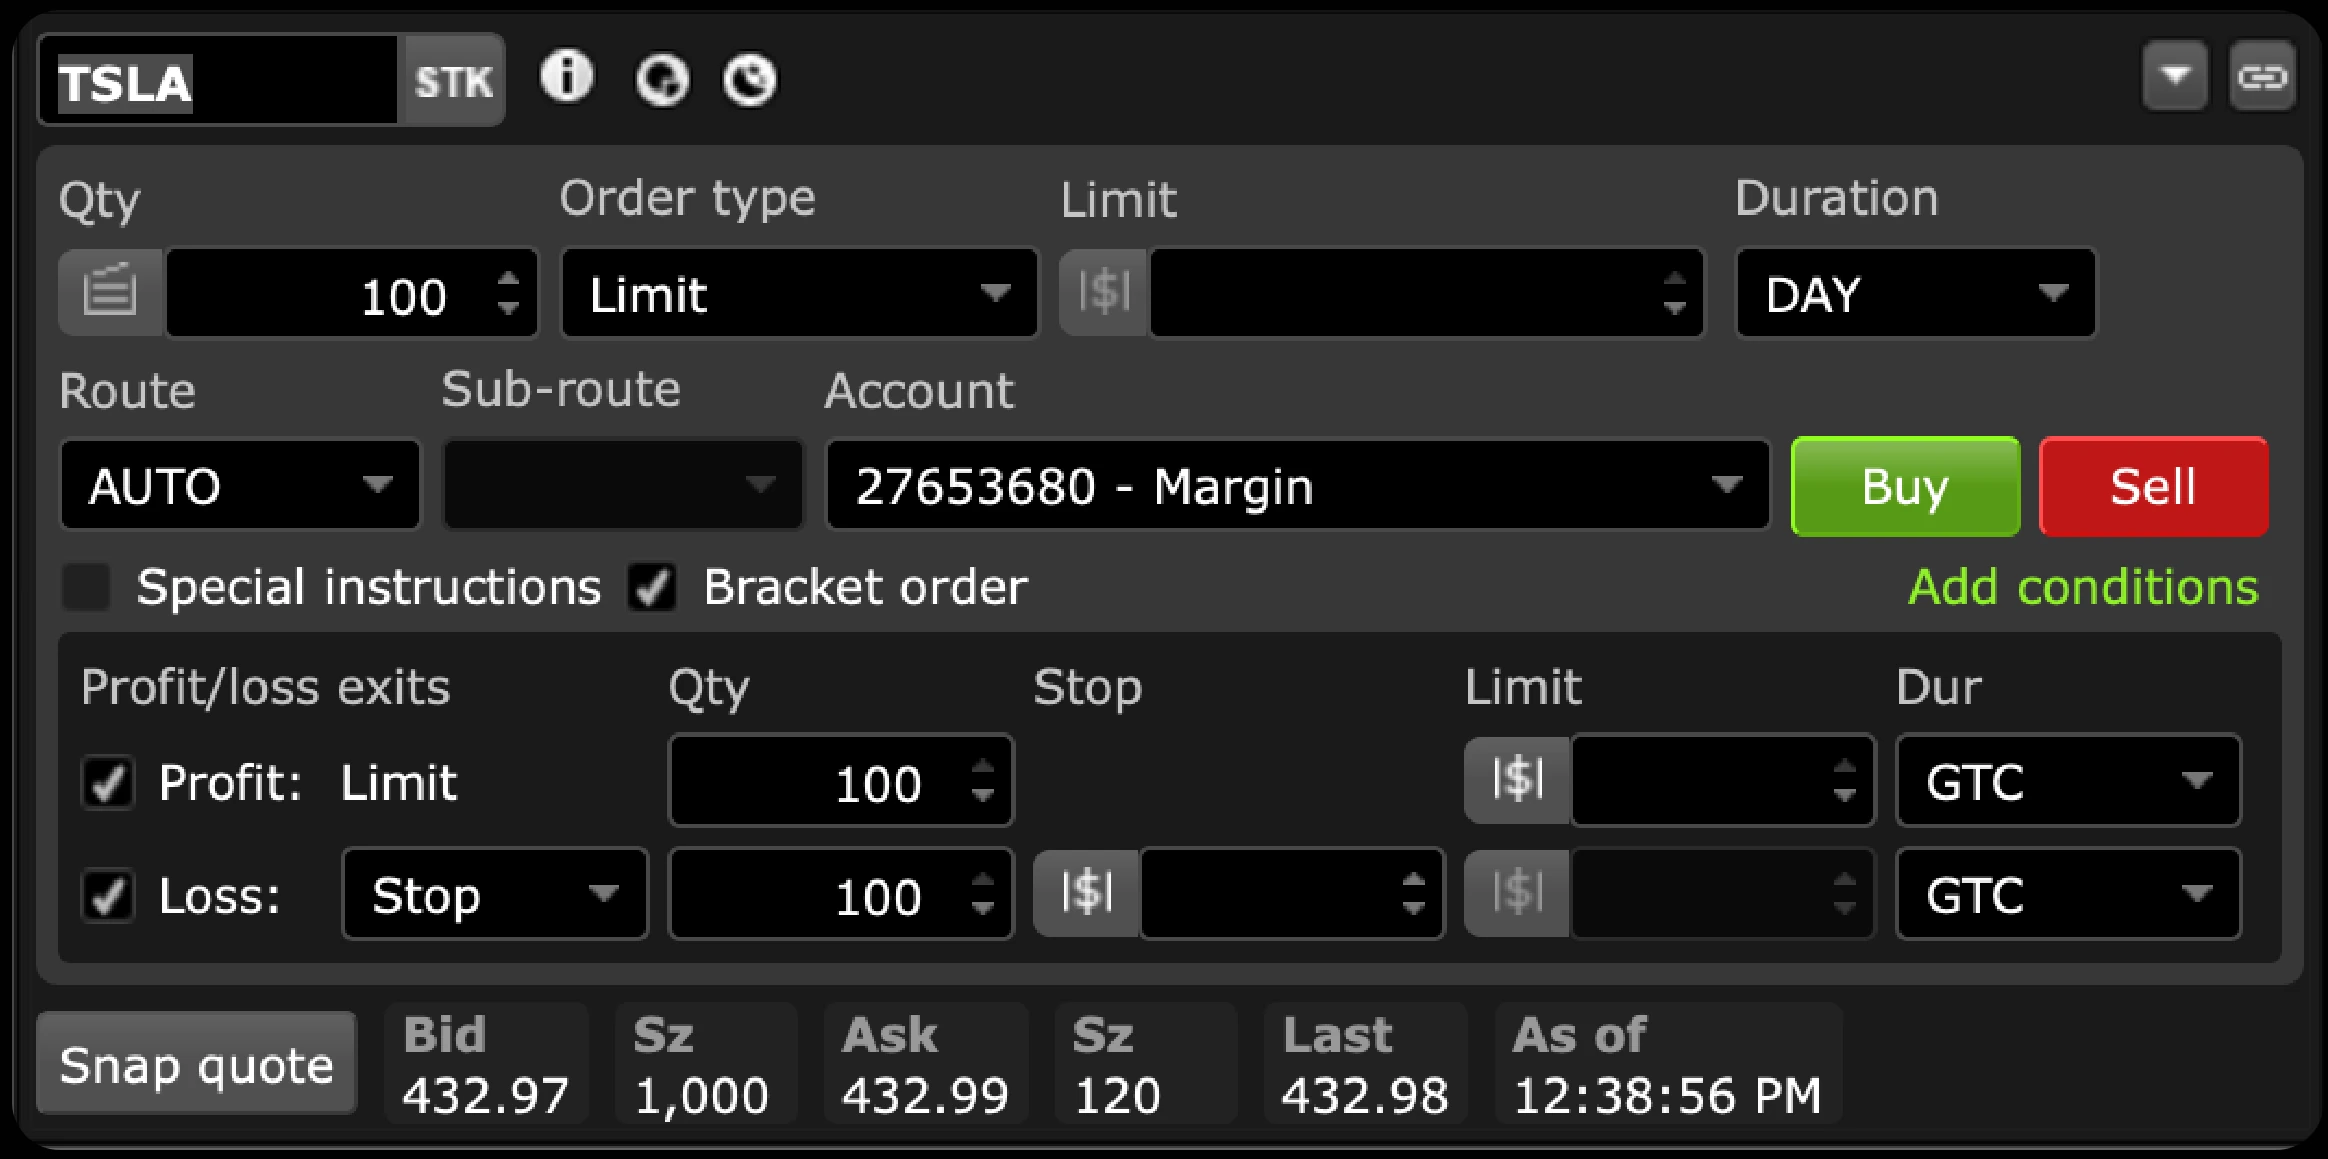
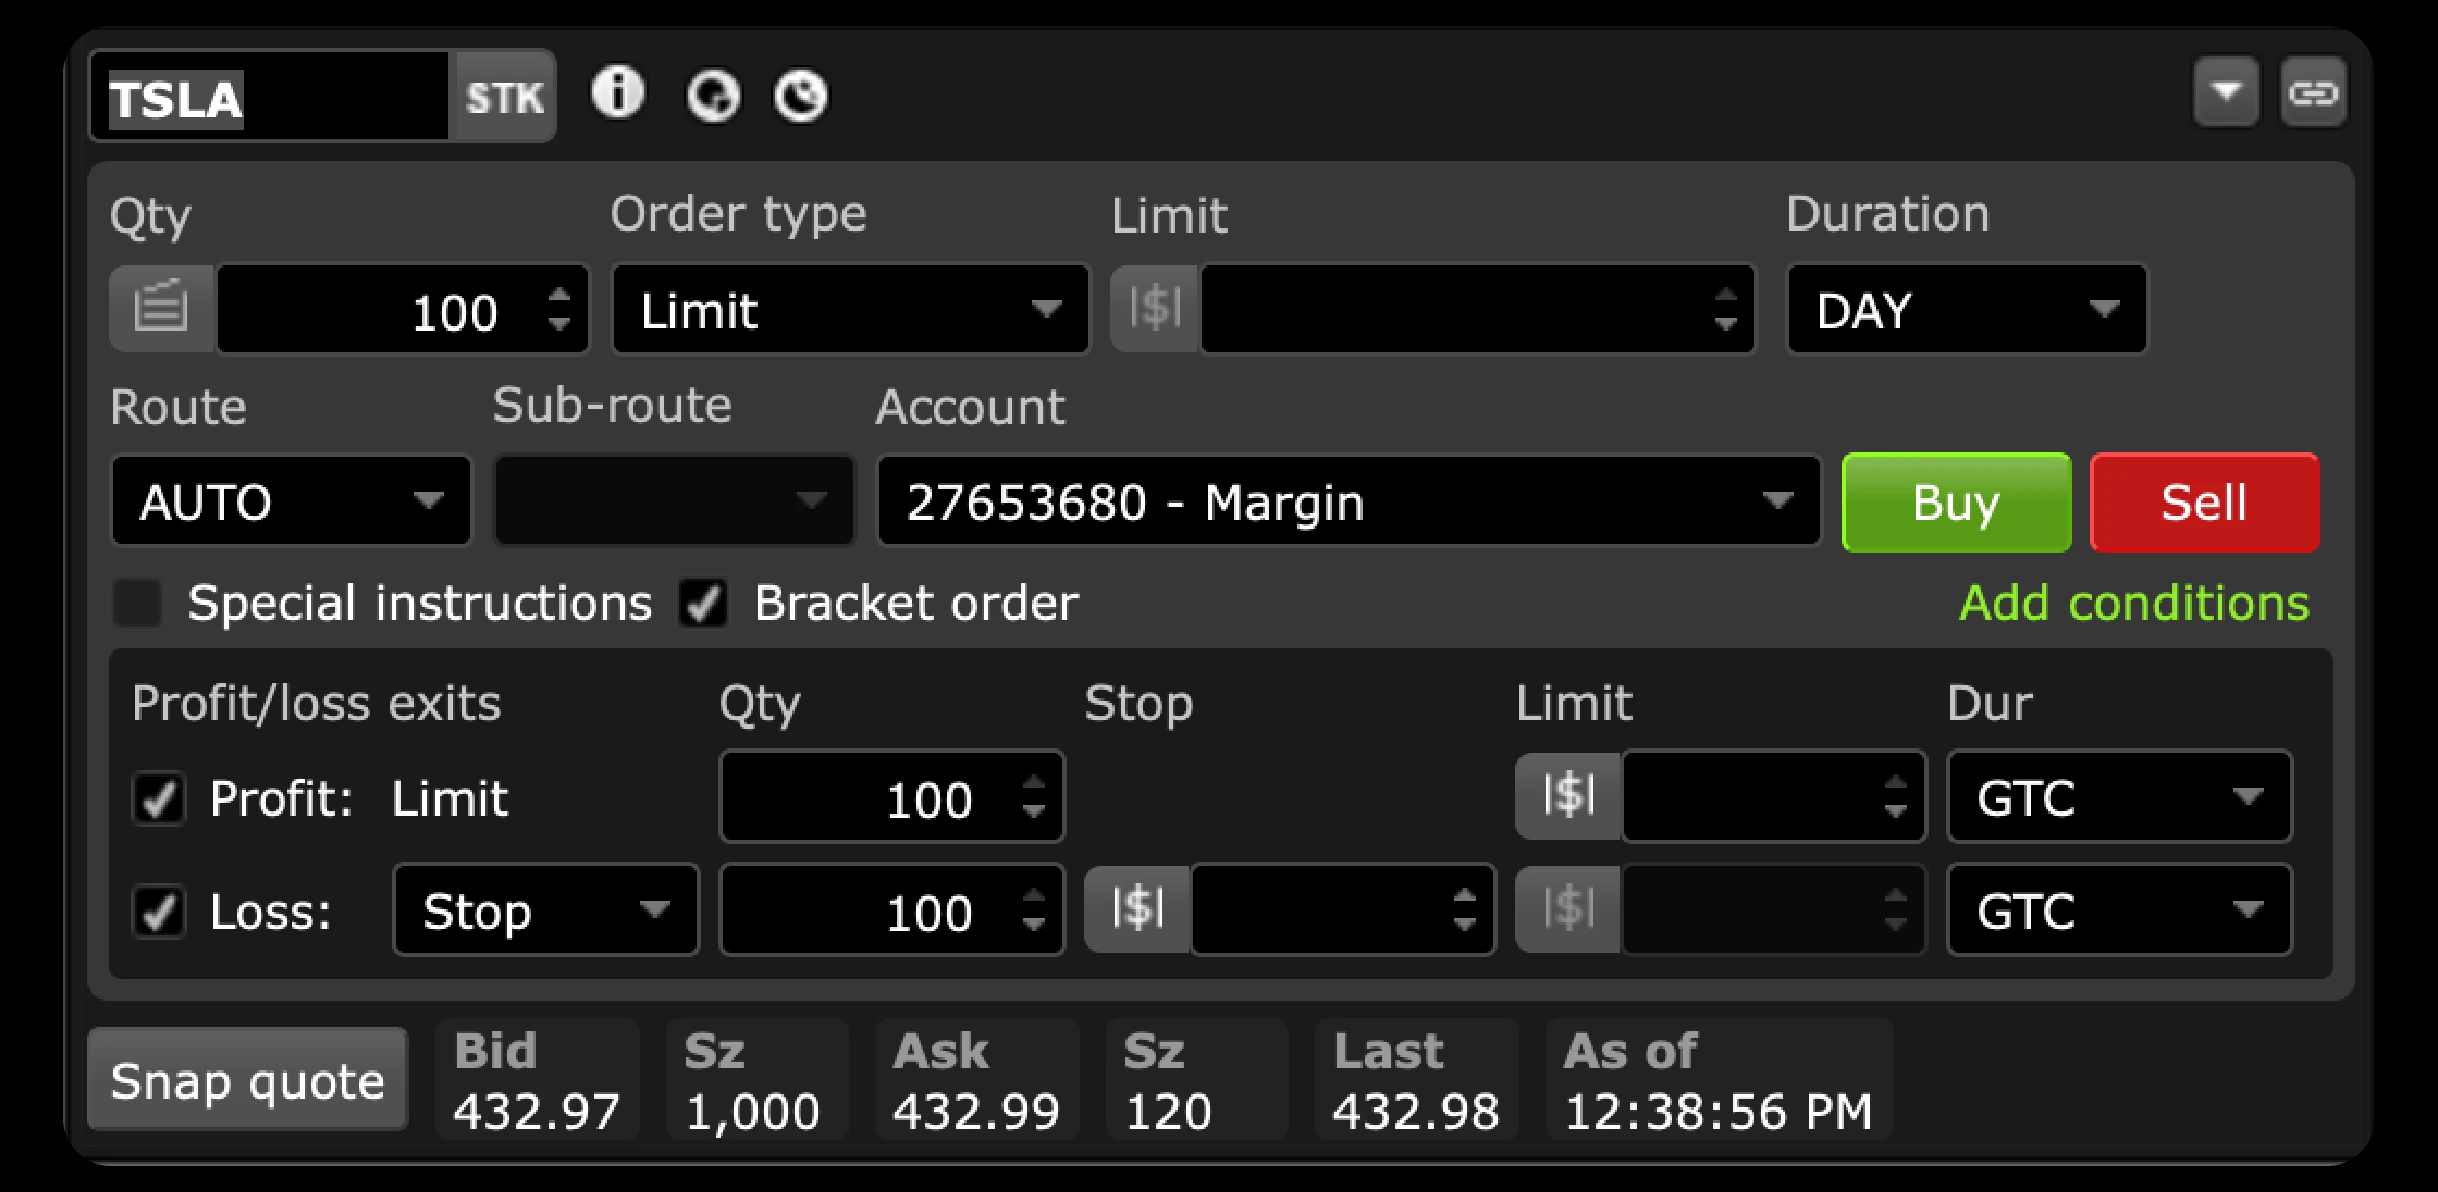
Presentation: slides 29 and 30 show the widget in exactly the same place
30 is a build of 29 (it adds the numbered markers), but the two crops had
different padding and placement, so the widget jumped between them. Both
now crop the same widget bitmap with the same padding into the same
rect, and 30 carries 29's hand-set size and offset — the only pixels
that change from 29 to 30 are the markers.

Claude-Session: https://claude.ai/code/session_017qUAhZ7gPwyhZknB1KuxvQ

Changed region(s): [[0.0, 0.0, 1.0, 0.994], [0.433, 0.5591, 0.4948, 0.6212]]

diff --git a/scripts/gusto_deck.py b/scripts/gusto_deck.py
@@ -231,12 +231,19 @@ N[26] = {"kind": "metrics", "bg": "black", "kicker": "Success metrics",
          "items": [{"text": "Reduce time to\ntrade by 15%"}, {"text": "Reduce number of\nclicks by 30%"}]}
 N[27] = D("How?")
 N[28] = S("What data do we show and how?", "Reducing time to trade")
+# 29 -> 30 is a build (30 adds the numbered markers): both crop the same
+# widget bitmap with the same padding and sit in the same place, so nothing
+# moves between them. Args are the widget image's rect on that slide.
+def widget(n, x0, y0, x1, y1, padx=0.8, pady=0.6):
+    return place(crop(n, 'a', x0 - padx, y0 - pady, x1 + padx, y1 + pady), 21, 58, y=25.5)
+
+
 N[29] = {"kind": "media", "bg": "black", "heading": "How do we show the data?",
          "labels": [{"text": "Current widget layout", "x": 50, "y": 21.5}],
-         "shots": [place(crop(29, 'a', 34.8, 34.6, 65.1, 61.4), 21, 58, y=25.5)]}
+         "shots": [widget(29, 34.93, 34.815, 65.07, 61.204)]}
 N[30] = {"kind": "media", "bg": "black", "heading": "How do we show the data?",
          "labels": [{"text": "Current widget layout", "x": 50, "y": 21.5}],
-         "shots": [place(crop(30, 'a', 35.3, 37.4, 66.4, 65.4), 20.5, 59, y=25.5)]}
+         "shots": [widget(30, 36.075, 38.333, 66.216, 64.722)]}
 # 31: the PDF's red boxes don't line up with the fields once the widget is
 # enlarged, so the widget comes from the clean embedded bitmap and the marks
 # are drawn by the deck, positioned in the image's own coordinates.
